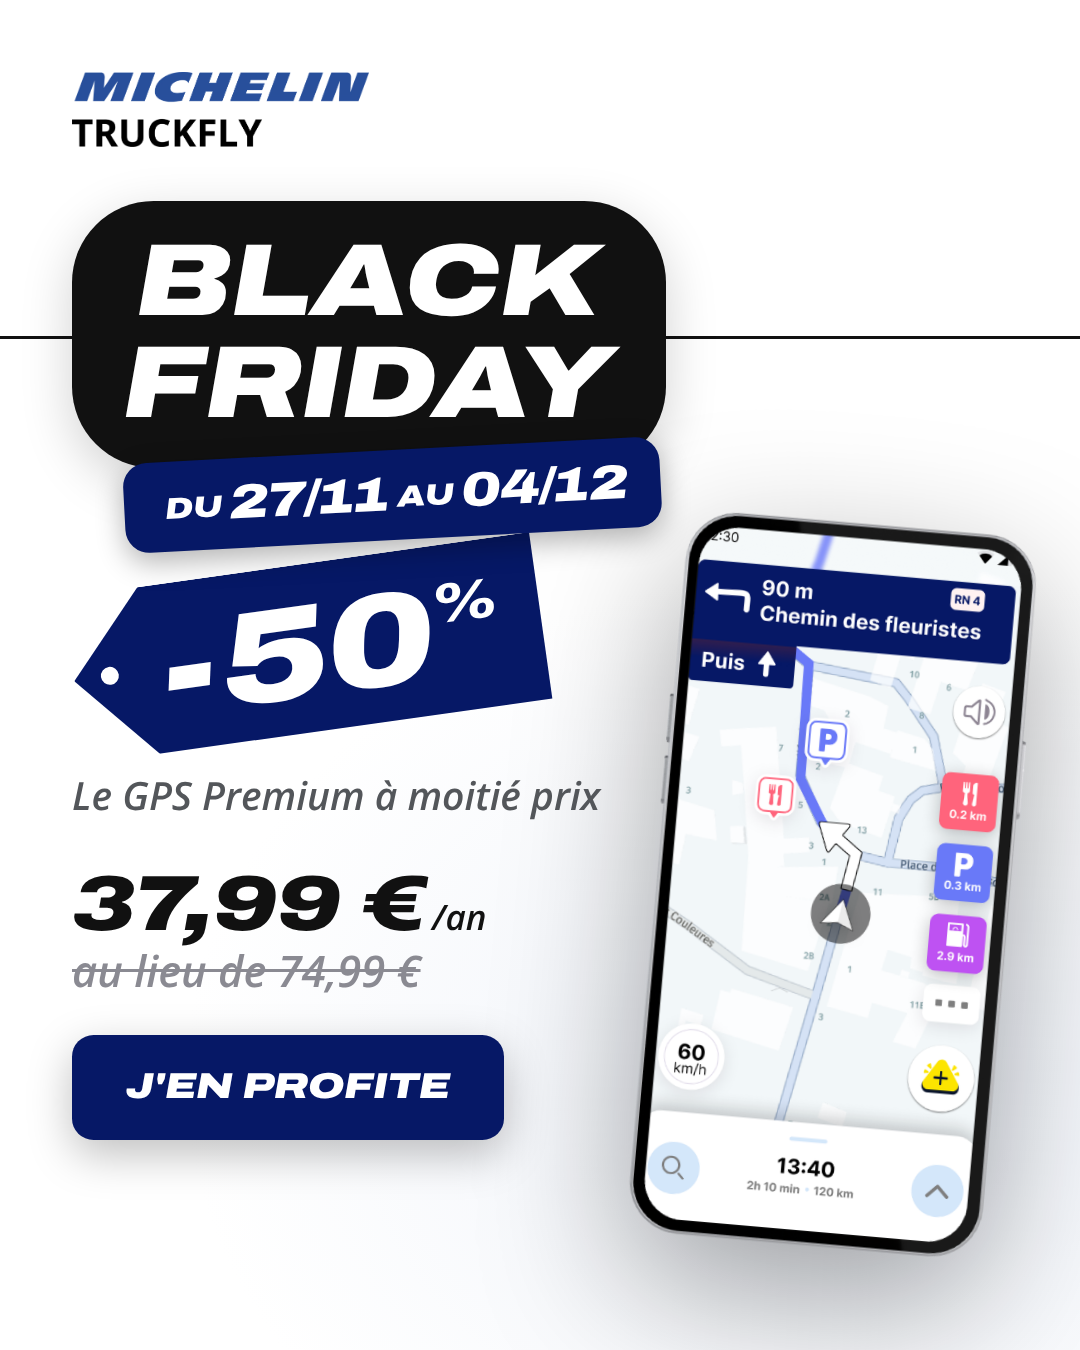
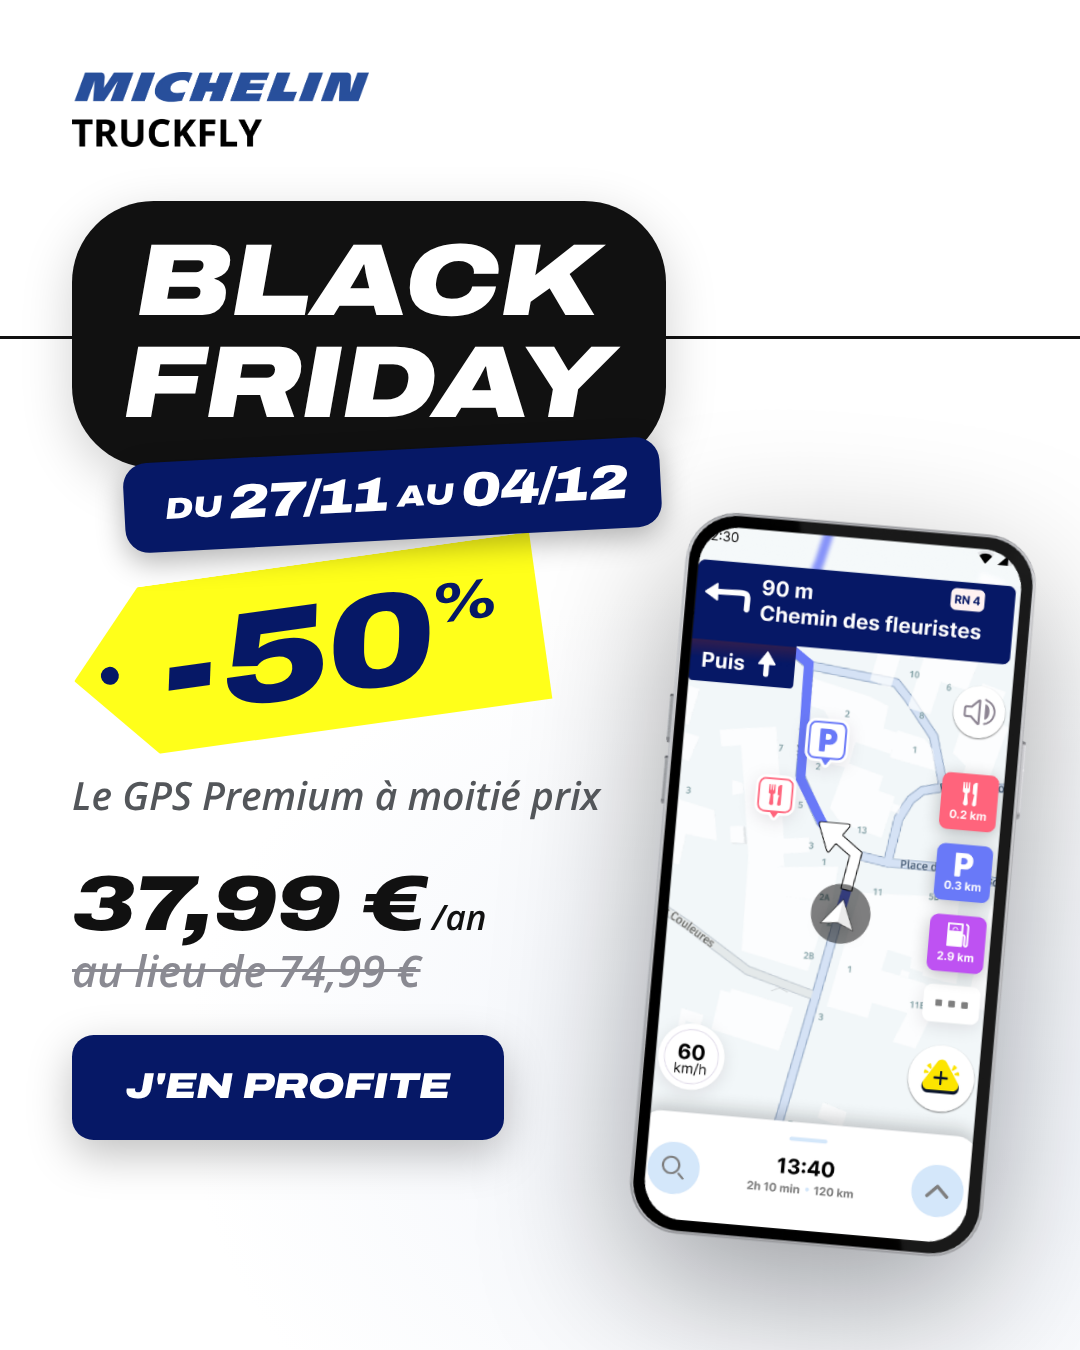
Black Friday: yellow -50% tag with blue text on the white background
Claude-Session: https://claude.ai/code/session_01Dxf6WNpnQxv74aPZfAxqSJ

Changed region(s): [[0.0611, 0.3733, 0.5194, 0.56]]

diff --git a/black-friday/fonds.html b/black-friday/fonds.html
@@ -16,7 +16,7 @@ body { background: #e6e6ea; font-family: "Texte", sans-serif; font-style: italic
          --tag: #FFFF1A; --tag-txt: #111; --cta: #FFFF1A; --cta-txt: #111; --chip: #fff; --chip-txt: #111; --barre: #8a8a92; --date: #FFFF1A; --date-txt: #111; }
 .blanc { --fond: radial-gradient(90% 55% at 80% 80%, #eef2f9 0%, transparent 70%), #fff;
          --titre: #111; --sous: #53565A; --boite: #111; --boite-txt: #fff; --rond: #FFFF1A; --ligne: #111;
-         --tag: #061866; --tag-txt: #fff; --cta: #061866; --cta-txt: #fff; --chip: #061866; --chip-txt: #fff; --barre: #8a8a92; --date: #061866; --date-txt: #fff; }
+         --tag: #FFFF1A; --tag-txt: #061866; --cta: #061866; --cta-txt: #fff; --chip: #061866; --chip-txt: #fff; --barre: #8a8a92; --date: #061866; --date-txt: #fff; }
 .bleu  { --fond: radial-gradient(90% 55% at 80% 80%, #1a2a7a 0%, transparent 70%), #061866;
          --titre: #fff; --sous: #BFD3F2; --boite: #fff; --boite-txt: #061866; --rond: #FFFF1A; --ligne: rgba(255,255,255,.9);
          --tag: #FFFF1A; --tag-txt: #061866; --cta: #FFFF1A; --cta-txt: #061866; --chip: #fff; --chip-txt: #061866; --barre: #9a9ab0; --date: #FFFF1A; --date-txt: #061866; }
